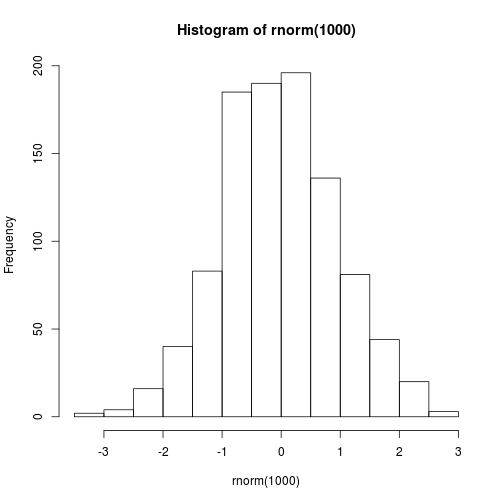
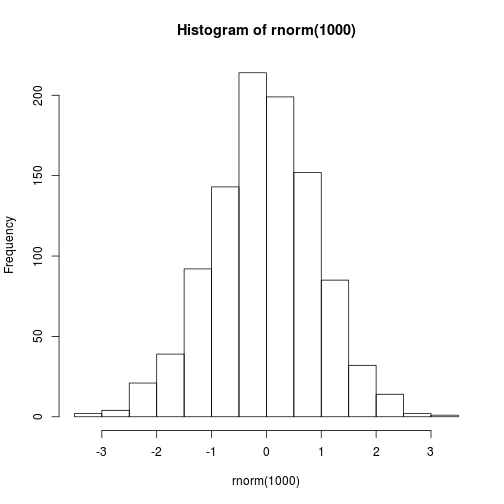
añadiendo ejemplos en R

diff --git a/manuscript/3. Ejemplo2.md b/manuscript/3. Ejemplo2.md
@@ -35,6 +35,11 @@ hx
 ##  [96] 3.085231e-05 2.284732e-05 1.680920e-05 1.228635e-05 8.922015e-06
 ```
 
+
+```r
+opts_chunk$set(fig.path = "images/") # corrected path and added dev
+```
+
 ##Ponemos los labels
 
 
@@ -51,4 +56,4 @@ mtext(result,3)
 axis(1, at=seq(40, 160, 20), pos=0) 
 ```
 
-![plot of chunk unnamed-chunk-2](figure/unnamed-chunk-2-1.png) 
+![plot of chunk unnamed-chunk-3](images/unnamed-chunk-3-1.png) 
